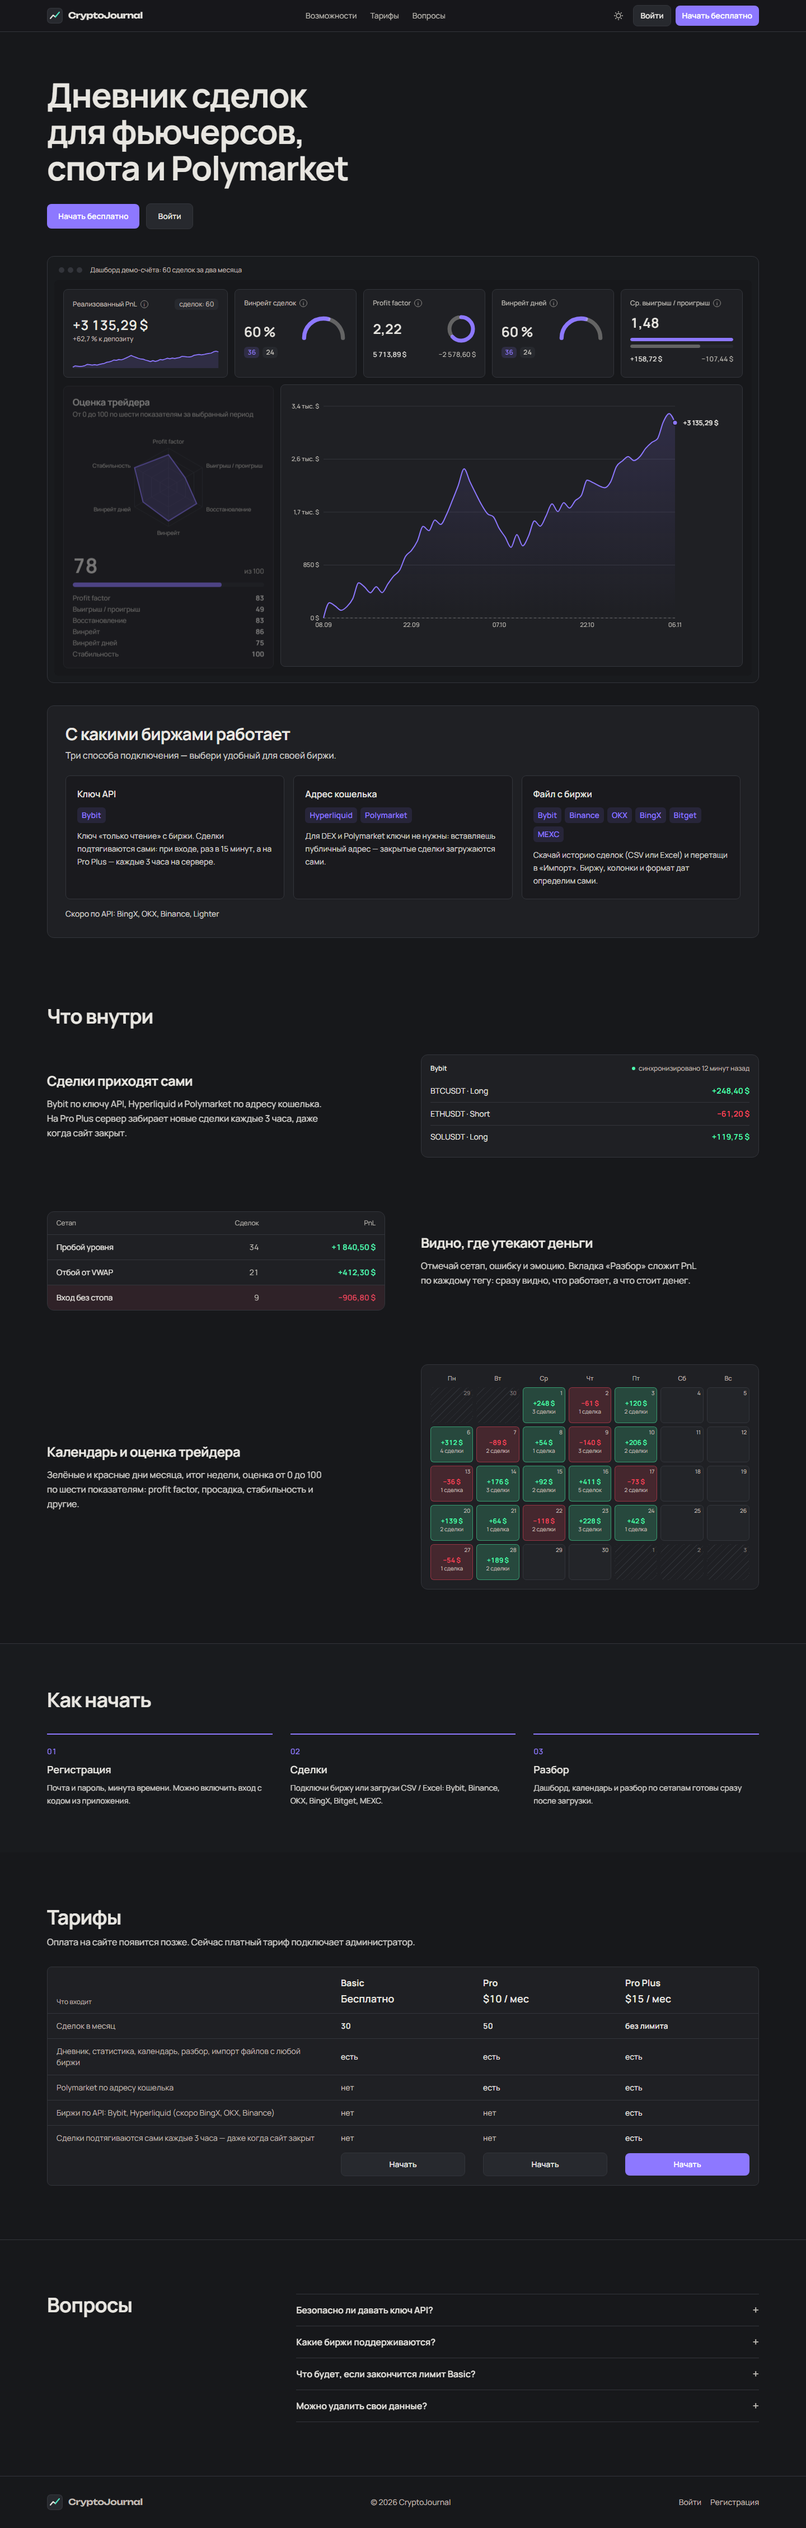
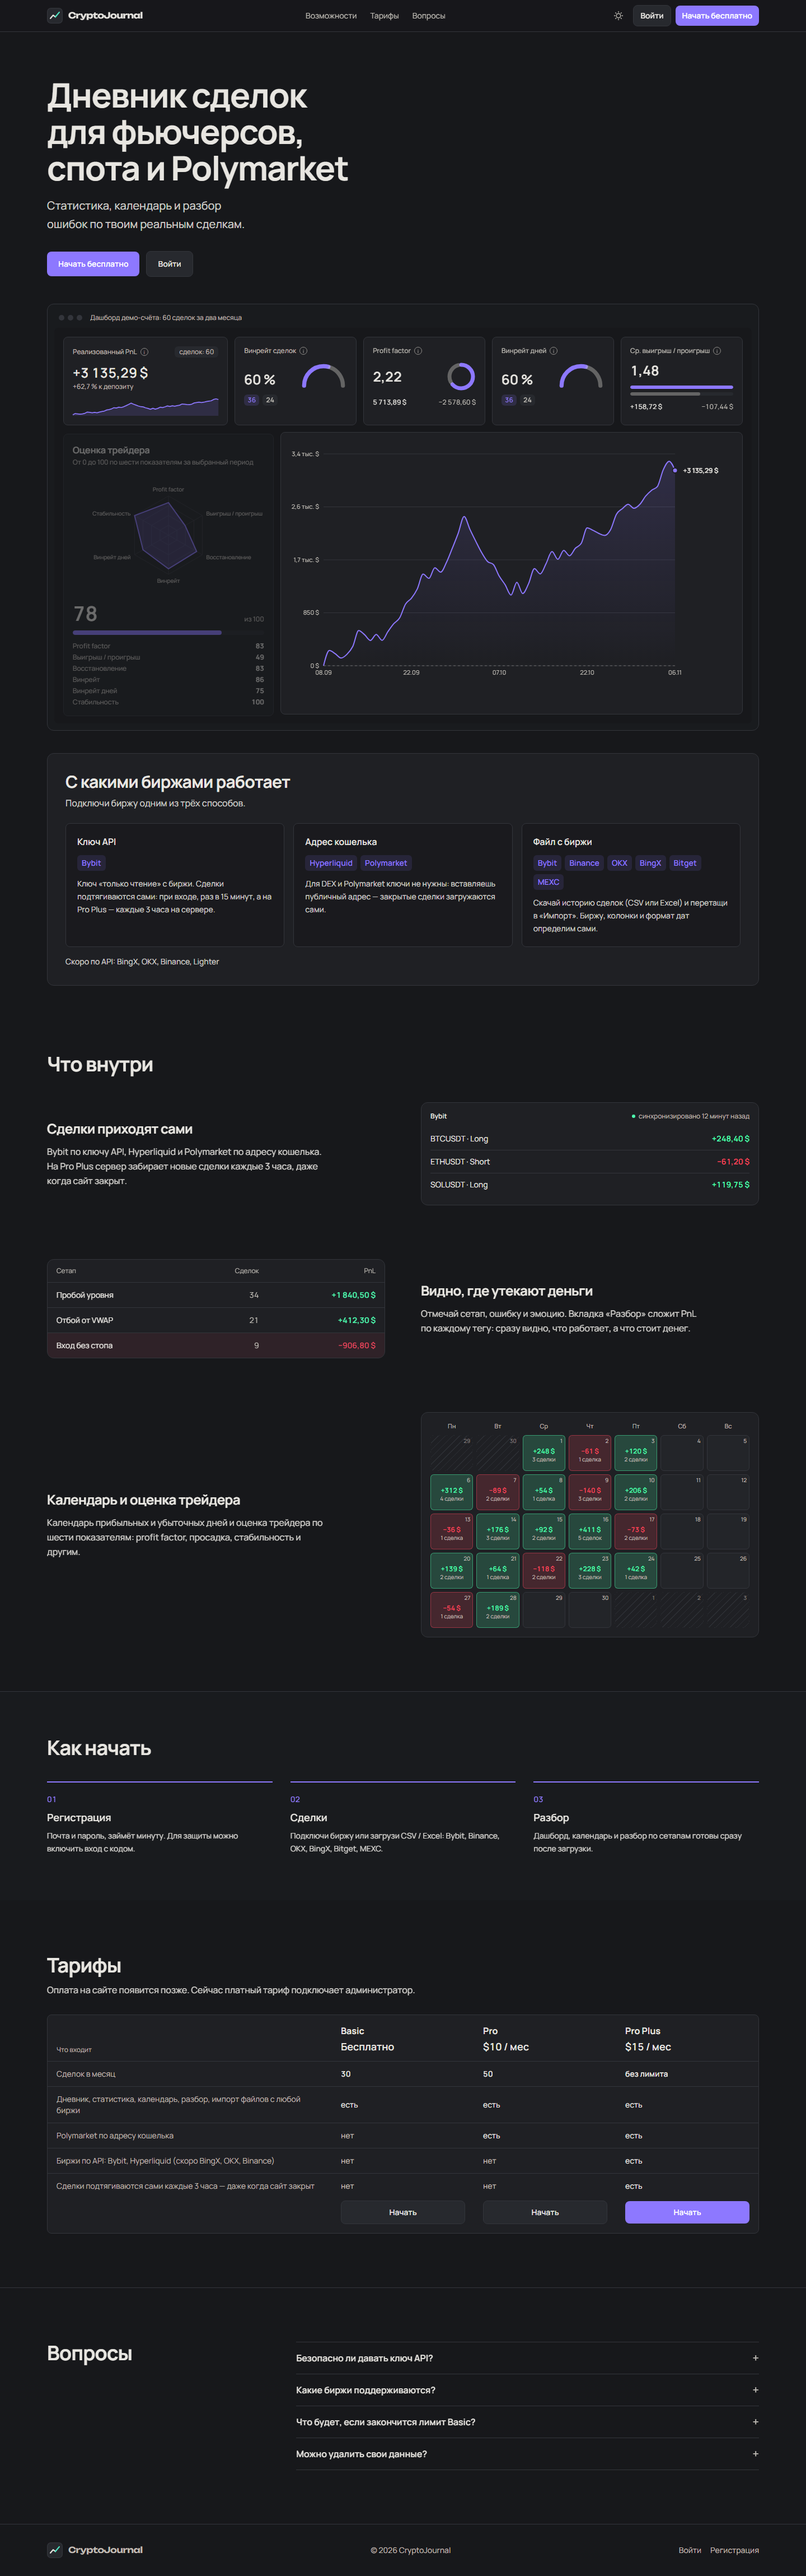
Главная: подзаголовок и новые тексты
- подзаголовок под главным заголовком: «Статистика, календарь и разбор ошибок по твоим реальным сделкам.»
- биржи: «Подключи биржу одним из трёх способов.»
- календарь: «Календарь прибыльных и убыточных дней и оценка трейдера по шести показателям…»
- шаг «Регистрация»: «Почта и пароль, займёт минуту. Для защиты можно включить вход с кодом.»
- скриншоты обновлены

diff --git a/src/i18n/ru.ts b/src/i18n/ru.ts
@@ -807,10 +807,11 @@ export const ru = {
     pick: 'Начать',
     open: 'Открыть дневник',
     title: 'Дневник сделок для фьючерсов, спота и Polymarket',
+    subtitle: 'Статистика, календарь и разбор ошибок по твоим реальным сделкам.',
     previewLabel: 'Дашборд демо-счёта: 60 сделок за два месяца',
     exchanges: {
       title: 'С какими биржами работает',
-      hint: 'Три способа подключения — выбери удобный для своей биржи.',
+      hint: 'Подключи биржу одним из трёх способов.',
       ways: {
         api: { title: 'Ключ API', text: 'Ключ «только чтение» с биржи. Сделки подтягиваются сами: при входе, раз в 15 минут, а на Pro Plus — каждые 3 часа на сервере.' },
         wallet: { title: 'Адрес кошелька', text: 'Для DEX и Polymarket ключи не нужны: вставляешь публичный адрес — закрытые сделки загружаются сами.' },
@@ -834,12 +835,12 @@ export const ru = {
       },
       calendar: {
         title: 'Календарь и оценка трейдера',
-        text: 'Зелёные и красные дни месяца, итог недели, оценка от 0 до 100 по шести показателям: profit factor, просадка, стабильность и другие.',
+        text: 'Календарь прибыльных и убыточных дней и оценка трейдера по шести показателям: profit factor, просадка, стабильность и другим.',
       },
     },
     steps: {
       title: 'Как начать',
-      a: { title: 'Регистрация', text: 'Почта и пароль, минута времени. Можно включить вход с кодом из приложения.' },
+      a: { title: 'Регистрация', text: 'Почта и пароль, займёт минуту. Для защиты можно включить вход с кодом.' },
       b: { title: 'Сделки', text: 'Подключи биржу или загрузи CSV / Excel: Bybit, Binance, OKX, BingX, Bitget, MEXC.' },
       c: { title: 'Разбор', text: 'Дашборд, календарь и разбор по сетапам готовы сразу после загрузки.' },
     },

diff --git a/src/features/landing/LandingPage.tsx b/src/features/landing/LandingPage.tsx
@@ -83,7 +83,10 @@ export function LandingPage() {
             <Reveal>
               <h1 className="text-4xl leading-[1.08] font-bold tracking-tight text-balance sm:text-5xl lg:text-6xl">{l.title}</h1>
             </Reveal>
-            <Reveal delay={90} className="mt-8 flex flex-wrap items-center gap-3">
+            <Reveal delay={60}>
+              <p className="mt-5 max-w-xl text-lg leading-relaxed text-balance text-text/90 sm:text-xl">{l.subtitle}</p>
+            </Reveal>
+            <Reveal delay={120} className="mt-8 flex flex-wrap items-center gap-3">
               <Link to="/register" className={`${btnPrimary} !px-5 !py-3`}>
                 {l.start}
               </Link>
